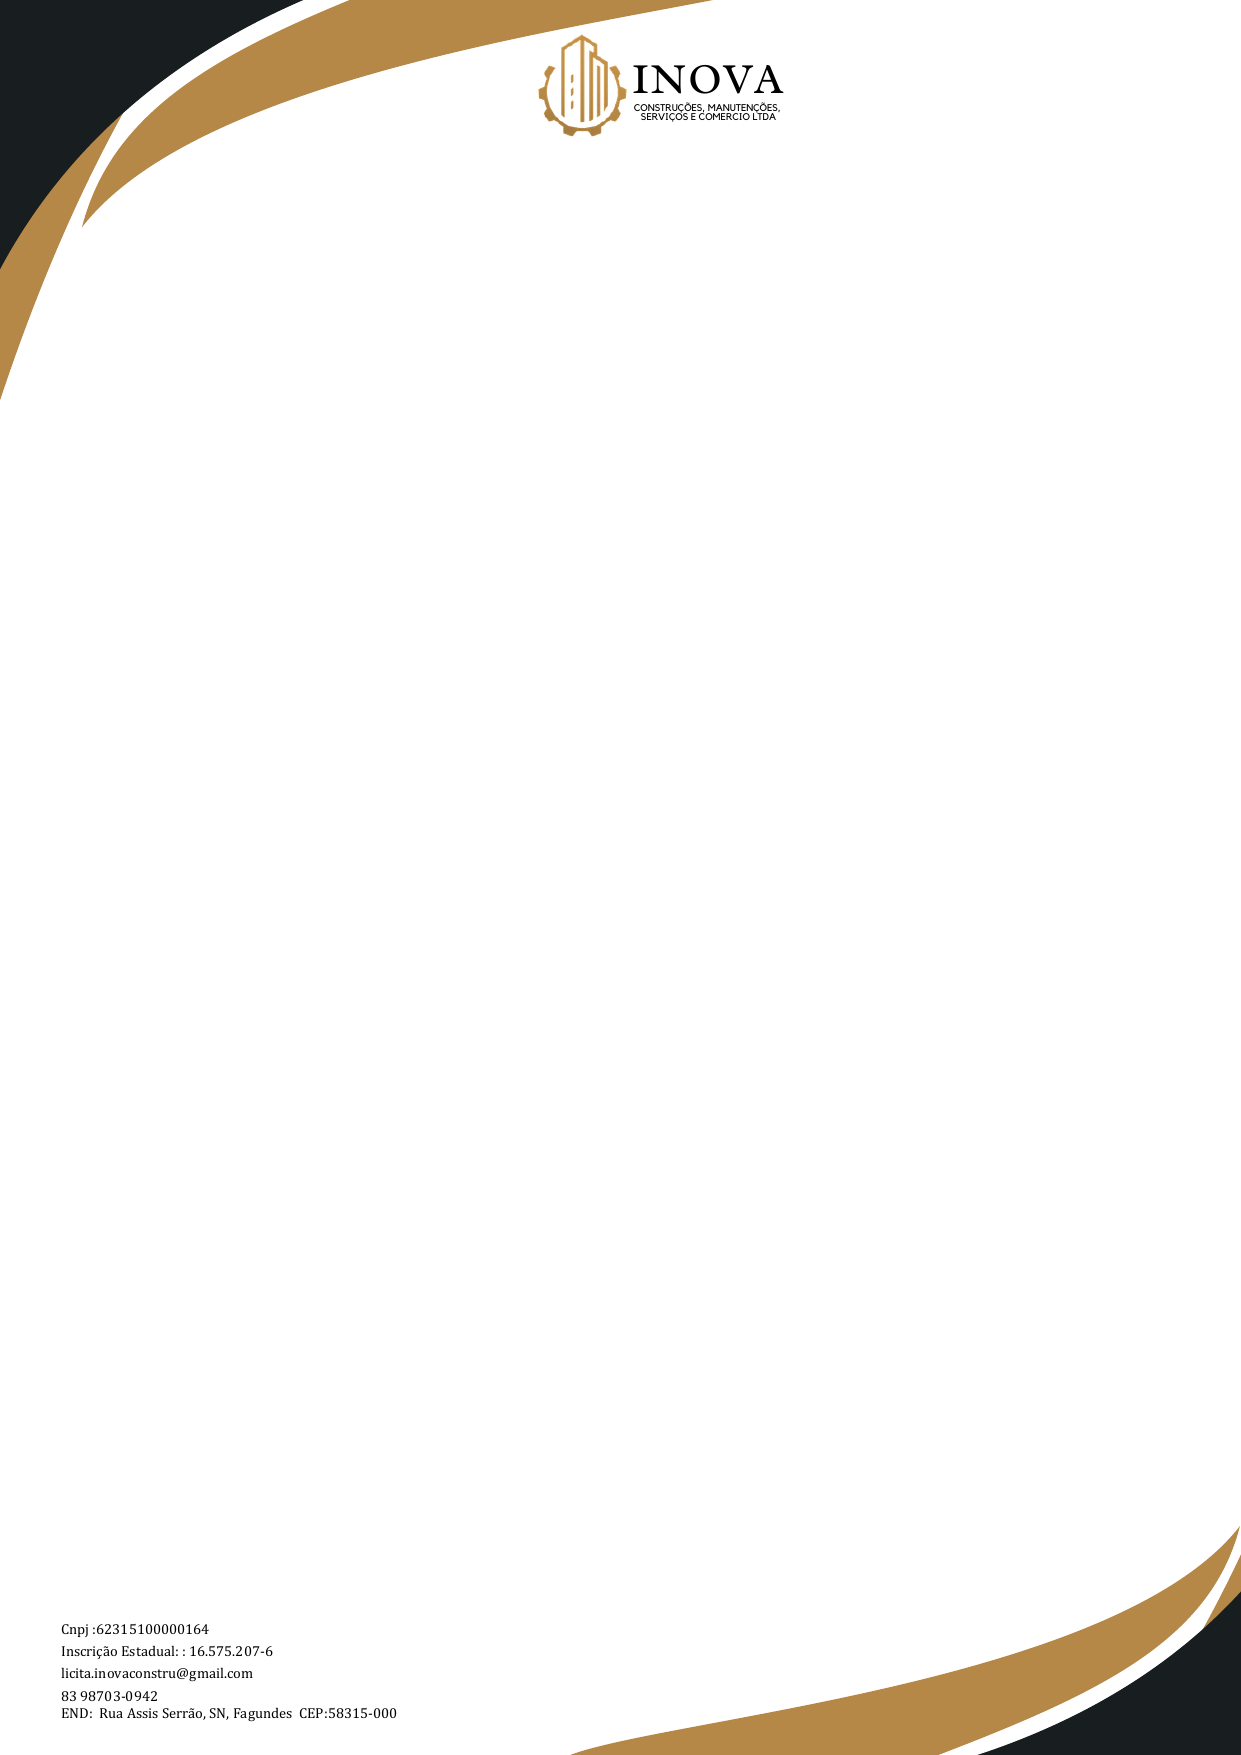
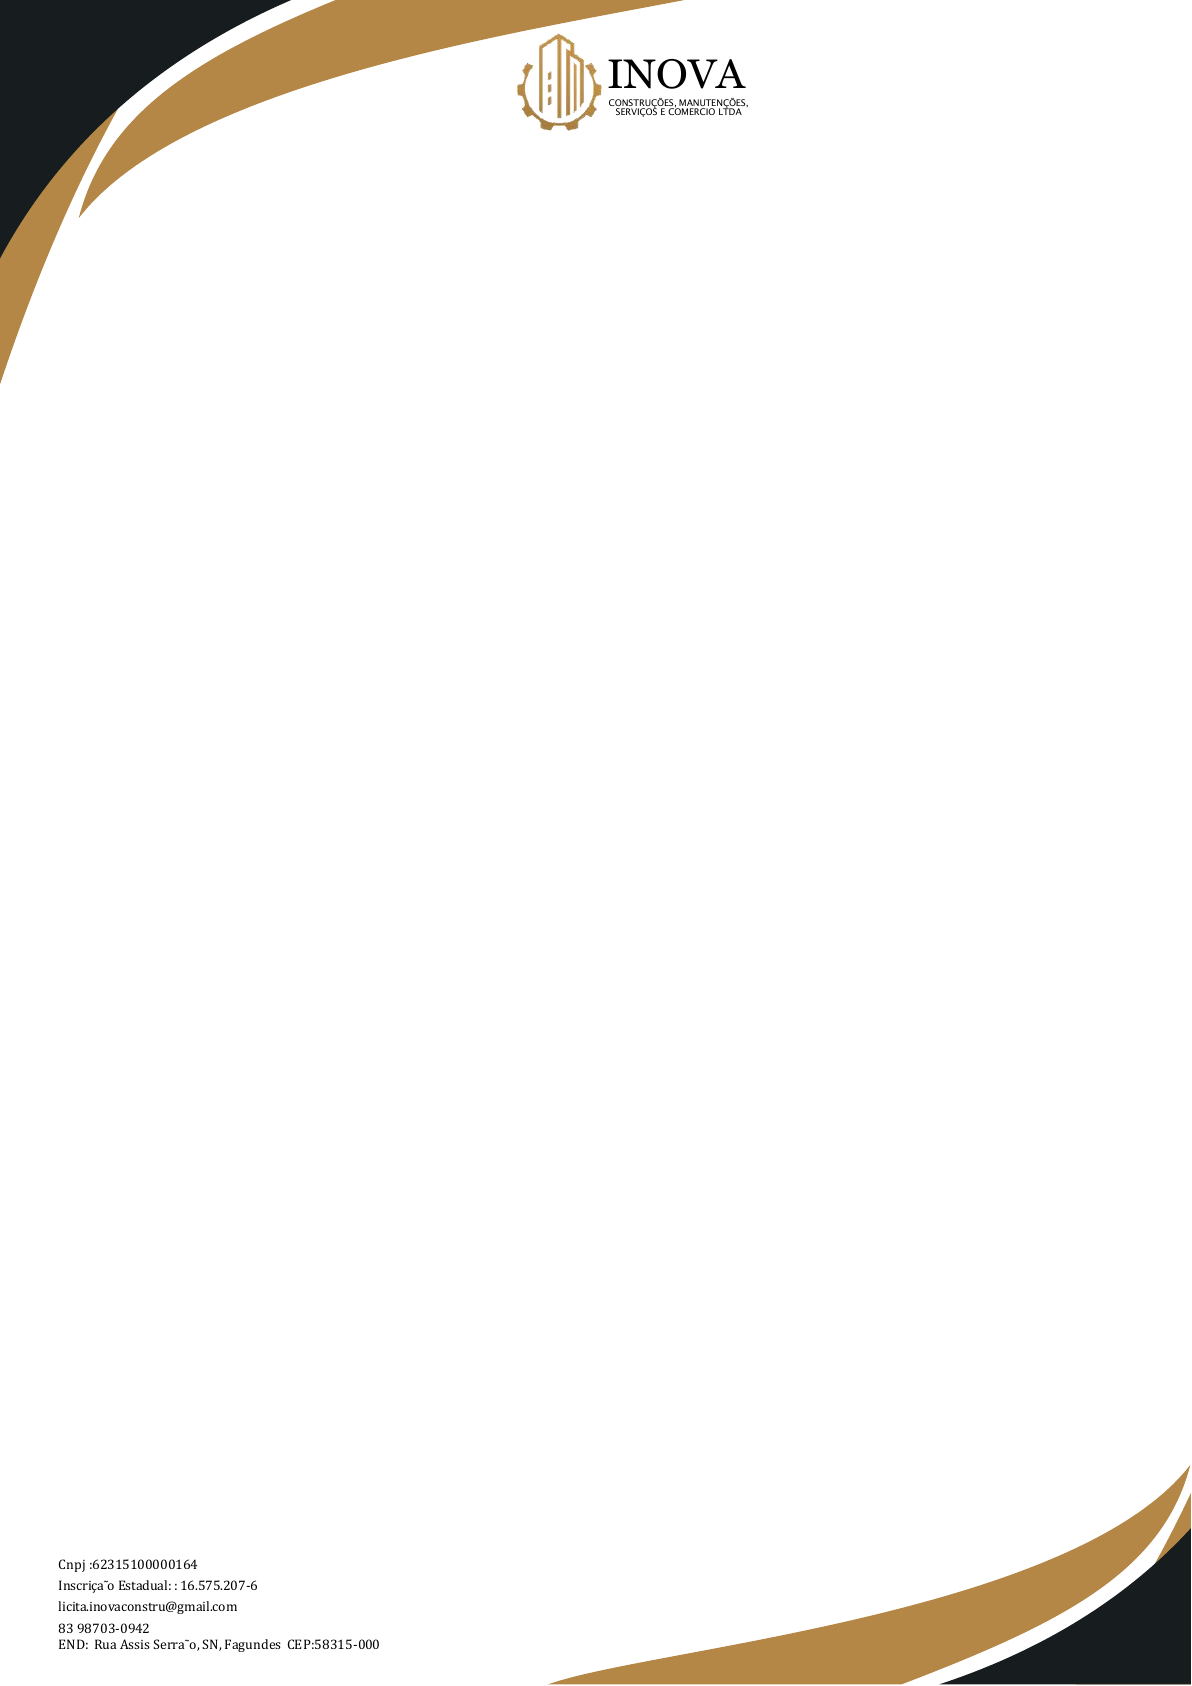
Usa papel timbrado Word fornecido

diff --git a/index.html b/index.html
@@ -6,11 +6,11 @@
   <meta name="theme-color" content="#070d11" />
   <meta name="description" content="Gestão de licitações, fornecedores, cotações e precificação." />
   <title>INOVA Licitações</title>
-  <link rel="manifest" href="manifest.json?v=36.22.6" />
-  <link rel="icon" type="image/png" sizes="192x192" href="icons/icon-192-v2.png?v=36.22.6" />
-  <link rel="apple-touch-icon" href="icons/icon-192-v2.png?v=36.22.6" />
-  <link rel="stylesheet" href="styles.css?v=36.22.6" />
-  <script src="./app-config.js?v=36.22.6"></script>
+  <link rel="manifest" href="manifest.json?v=36.22.7" />
+  <link rel="icon" type="image/png" sizes="192x192" href="icons/icon-192-v2.png?v=36.22.7" />
+  <link rel="apple-touch-icon" href="icons/icon-192-v2.png?v=36.22.7" />
+  <link rel="stylesheet" href="styles.css?v=36.22.7" />
+  <script src="./app-config.js?v=36.22.7"></script>
   <script src="https://cdn.jsdelivr.net/npm/pdf-lib@1.17.1/dist/pdf-lib.min.js"></script>
   <script src="https://cdn.jsdelivr.net/npm/xlsx@0.18.5/dist/xlsx.full.min.js"></script>
   <script src="https://cdn.jsdelivr.net/npm/docx@9.5.1/build/index.umd.js"></script>
@@ -507,7 +507,7 @@
         <img src="assets/logo.png" alt="INOVA Construções, Manutenções, Serviços e Comércio LTDA">
         <div><strong>INOVA LICITAÇÕES</strong><span>CONSTRUÇÕES, MANUTENÇÕES, SERVIÇOS E COMÉRCIO LTDA</span></div>
       </div>
-              <div class="footer-status"><span>Versão 36.22.6</span><i></i><span>Instalação disponível para toda a equipe</span></div>
+              <div class="footer-status"><span>Versão 36.22.7</span><i></i><span>Instalação disponível para toda a equipe</span></div>
     </footer>
   </div>
 
@@ -523,6 +523,6 @@
     <option value="Declaração art. 7º, XXXIII"></option>
     <option value="Outro"></option>
   </datalist>
-  <script type="module" src="./app.js?v=36.22.6"></script>
+  <script type="module" src="./app.js?v=36.22.7"></script>
 </body>
 </html>

diff --git a/service-worker.js b/service-worker.js
@@ -1,7 +1,7 @@
-const CACHE='inova-licitacoes-v36.22.6';
+const CACHE='inova-licitacoes-v36.22.7';
 const CORE=[
-  './','./index.html','./styles.css?v=36.22.6','./app.js?v=36.22.6','./manifest.json?v=36.22.6',
-  './assets/logo.png','./assets/papel-timbrado.png','./icons/icon-192-v2.png?v=36.22.6','./icons/icon-512-v2.png?v=36.22.6'
+  './','./index.html','./styles.css?v=36.22.7','./app.js?v=36.22.7','./manifest.json?v=36.22.7',
+  './assets/logo.png','./assets/papel-timbrado.png','./icons/icon-192-v2.png?v=36.22.7','./icons/icon-512-v2.png?v=36.22.7'
 ];
 
 self.addEventListener('install',event=>{
